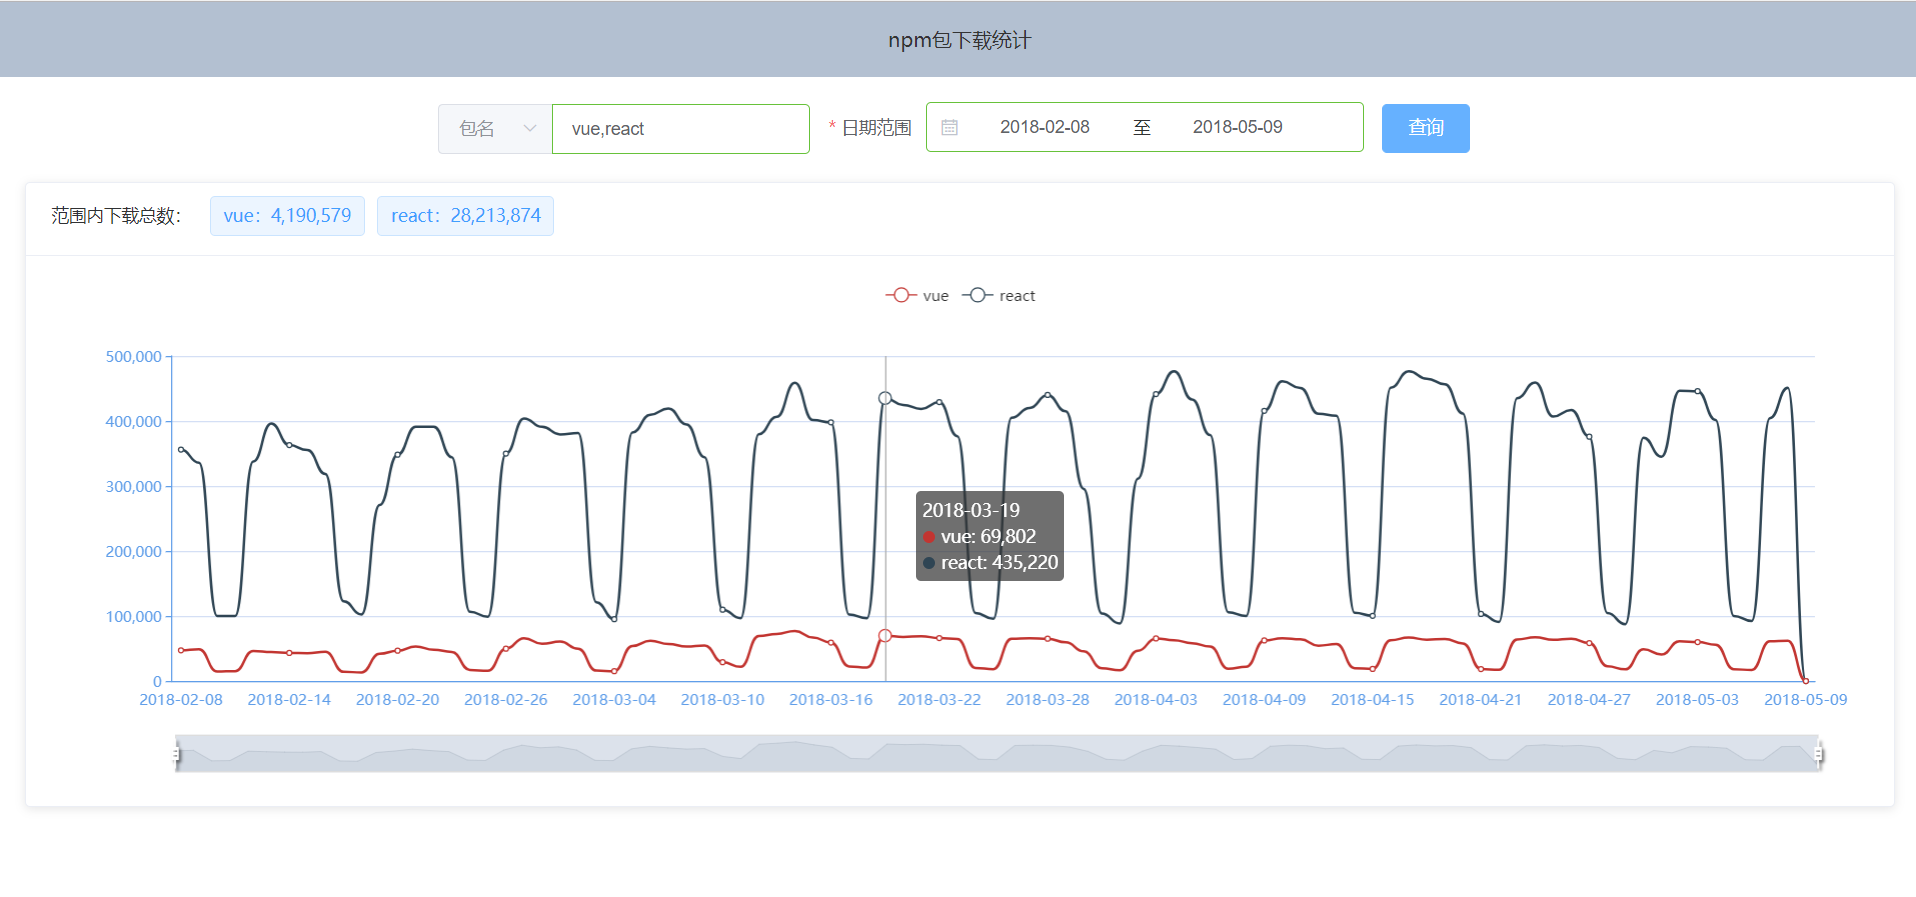
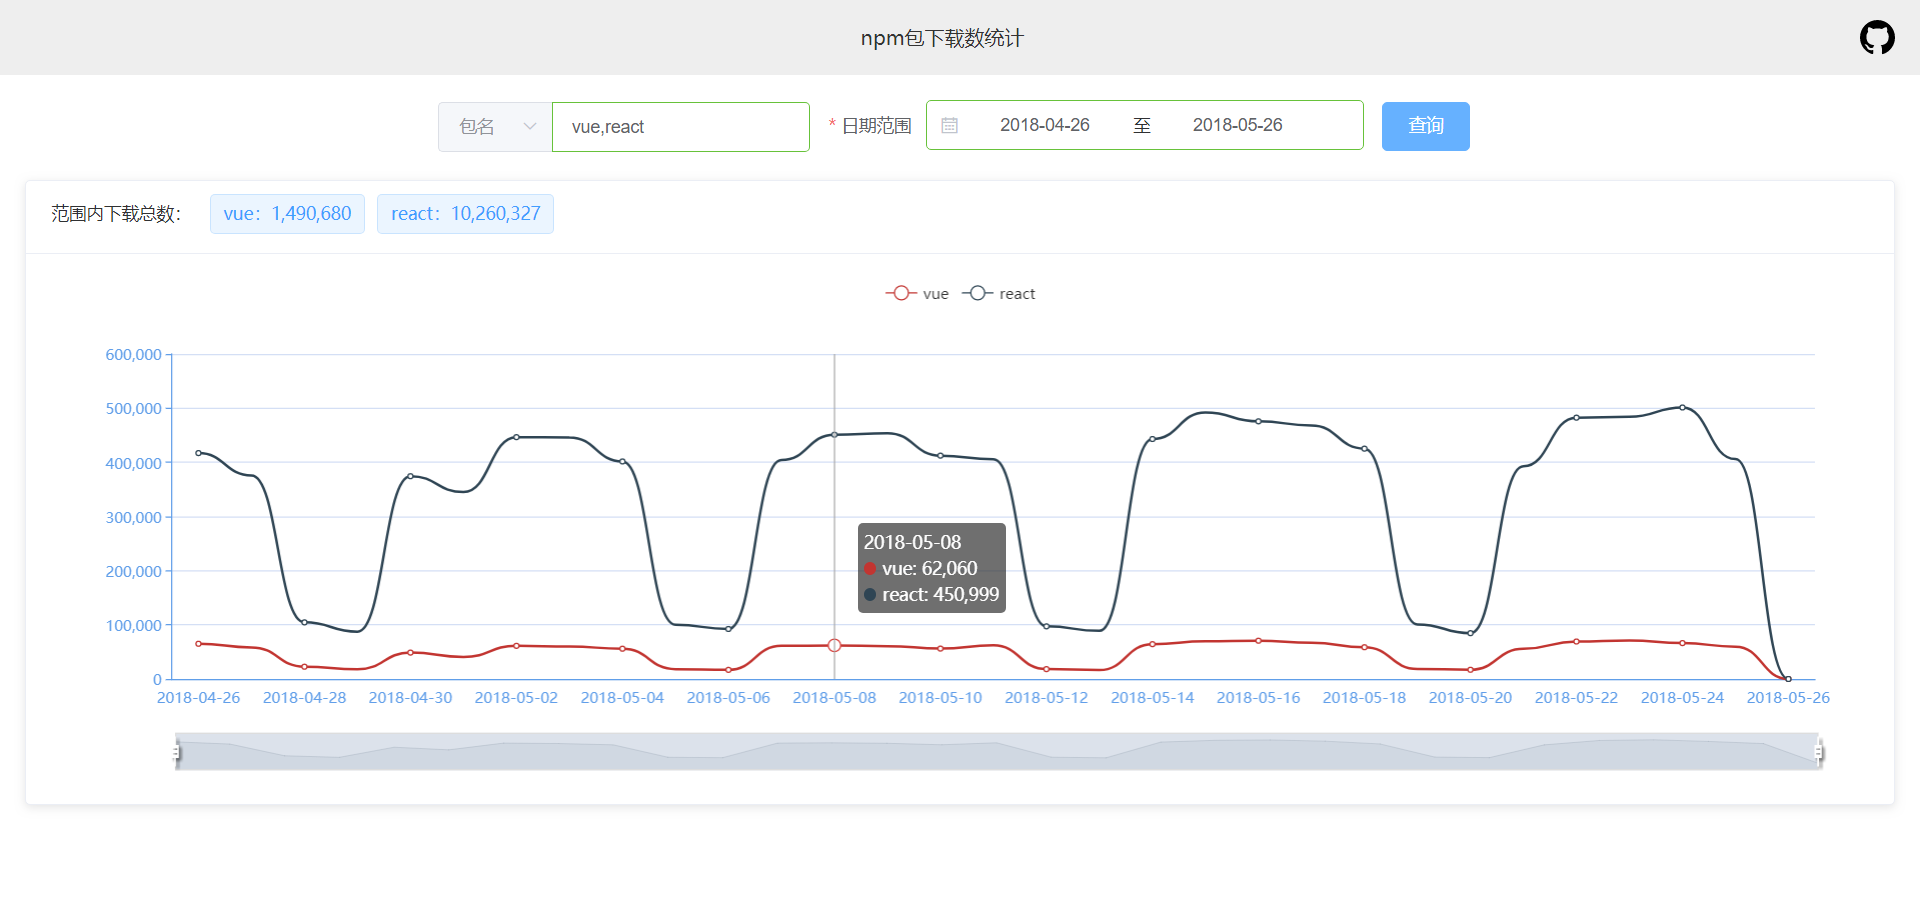
style: style change
style: style change
fix: default datetime

diff --git a/src/views/home/index.vue b/src/views/home/index.vue
@@ -1,7 +1,14 @@
 <template>
   <div>
     <el-container>
-      <el-header>npm包下载统计</el-header>
+      <el-header>
+        <span>npm包下载数统计</span>
+        <a href="https://github.com/luffyli/npm-download-count" target="_blank" class="header-github-link">
+          <svg height="60" width="28" viewBox="0 0 16 16" version="1.1" aria-hidden="true" class="octicon octicon-mark-github">
+            <path fill-rule="evenodd" d="M8 0C3.58 0 0 3.58 0 8c0 3.54 2.29 6.53 5.47 7.59.4.07.55-.17.55-.38 0-.19-.01-.82-.01-1.49-2.01.37-2.53-.49-2.69-.94-.09-.23-.48-.94-.82-1.13-.28-.15-.68-.52-.01-.53.63-.01 1.08.58 1.23.82.72 1.21 1.87.87 2.33.66.07-.52.28-.87.51-1.07-1.78-.2-3.64-.89-3.64-3.95 0-.87.31-1.59.82-2.15-.08-.2-.36-1.02.08-2.12 0 0 .67-.21 2.2.82.64-.18 1.32-.27 2-.27.68 0 1.36.09 2 .27 1.53-1.04 2.2-.82 2.2-.82.44 1.1.16 1.92.08 2.12.51.56.82 1.27.82 2.15 0 3.07-1.87 3.75-3.65 3.95.29.25.54.73.54 1.48 0 1.07-.01 1.93-.01 2.2 0 .21.15.46.55.38A8.013 8.013 0 0 0 16 8c0-4.42-3.58-8-8-8z"></path>
+          </svg>
+        </a>
+      </el-header>
       <el-main>
         <el-form :inline="true" :model="queryForm" :rules="rules" ref="queryForm" class="query-form-inline">
           <el-form-item prop="name">
@@ -60,6 +67,14 @@ export default {
         callback()
       }
     }
+    let dateFormat = (date = (+new Date())) => {
+      let d = new Date(date)
+      let month = (d.getMonth() + 1)
+      let day = d.getDate()
+      if (month < 10) month = `0${month}`
+      if (day < 10) day = `0${day}`
+      return `${d.getFullYear()}-${month}-${day}`
+    }
     return {
       fullscreenLoading: false,
       packageInfo: [],
@@ -67,7 +82,7 @@ export default {
       searchType: '1',
       queryForm: {
         name: 'vue',
-        datetime: ['2018-04-09', '2018-05-09']
+        datetime: [dateFormat(new Date().setMonth(new Date().getMonth() - 1)), dateFormat()]
       },
       npmDataChart: '',
       chartOpention: '',
@@ -312,10 +327,14 @@ export default {
 
 <style>
   .el-header {
-    background-color: #b3c0d1;
+    background-color: #eee;
     color: #333;
     text-align: center;
     line-height: 60px;
+  }
+  .header-github-link {
+    float: right;
+    line-height: 0;
   }
   #chart-render {
     width: 100%;

diff --git a/src/App.vue b/src/App.vue
@@ -13,6 +13,5 @@ export default {
 <style>
 body {
   margin: 0;
-  max-width: 1920px;
 }
 </style>
